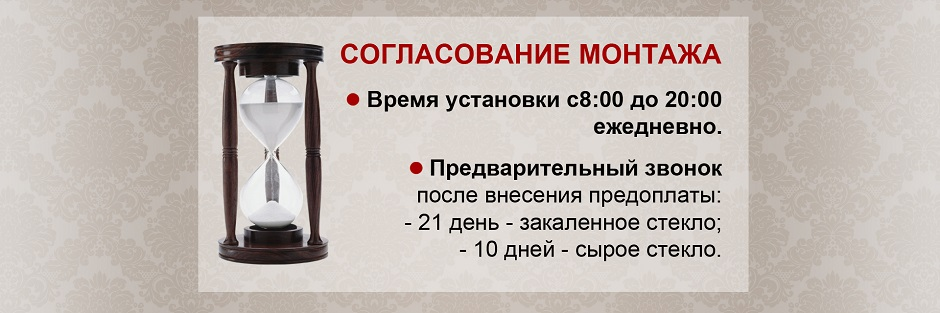
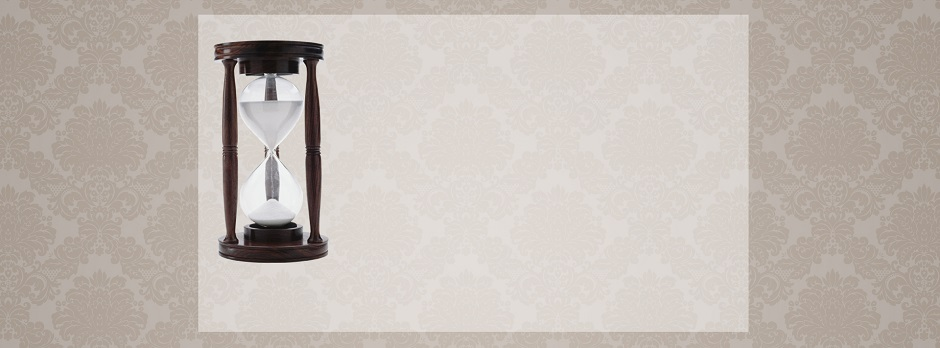
fix: replace mount image with markup

diff --git a/index.html b/index.html
@@ -148,6 +148,18 @@
 
             <section id="mount">
                 <img src="./images/mount.jpg" />
+                <div id="mount-title">
+                    <h2 id="mount-title-l1">Согласование монтажа</h2>
+                    <ul>
+                        <li><h4>Время установки с 8:00 до 20:00 ежедневно.</h4></li>
+                        <li><h4>Предварительный звонок после внесения предоплаты:</h4>
+                            <ul>
+                                <li>21 день - закалённое стекло;</li>
+                                <li>10 дней - сырое стекло</li>
+                            </ul>
+                        </li>
+                     </ul>
+                </div>
             </section>
 
         </div>

diff --git a/stylesheets/stylesheet.css b/stylesheets/stylesheet.css
@@ -740,6 +740,10 @@ border:1px solid #34740e; -webkit-border-radius: 3px; -moz-border-radius: 3px;bo
     border-radius: 5px;
 }
 
+#mount {
+    position: relative;
+}
+
 #mount-block {
     margin-bottom: 20px;
     margin-top: 20px;
@@ -753,6 +757,23 @@ border:1px solid #34740e; -webkit-border-radius: 3px; -moz-border-radius: 3px;bo
 #mount-text p {
     float: left;
     margin-bottom: 60px;
+}
+
+#mount-title {
+    width: 40%;
+    position: absolute;
+    top: 10%;
+    left: 40%;
+    font-size: 0.8em;
+}
+
+#mount-title-l1 {
+    padding-bottom: 0px;
+    padding-top: 0px;
+    margin-top: 0px;
+    margin-bottom: 0px;
+    font-size: 1.8em;
+    color: #B91616;    
 }
 
 form h3 {
